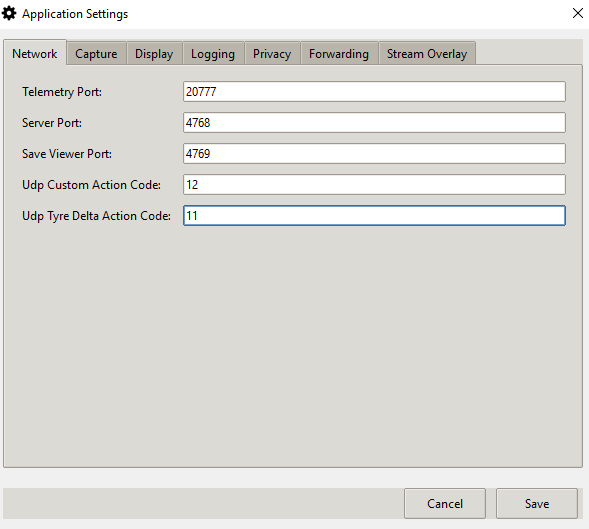
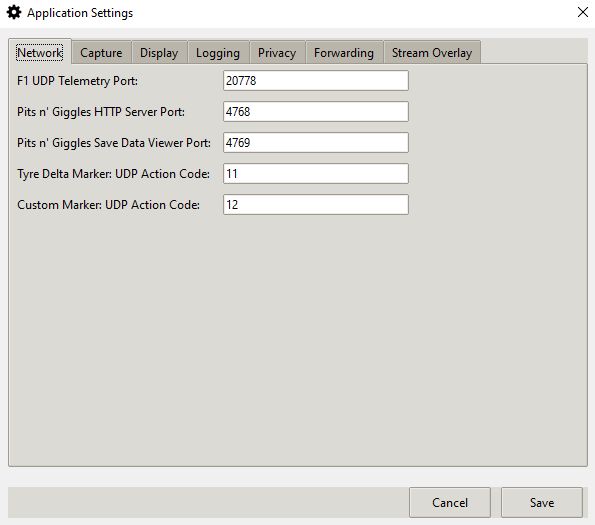
Updated settings screenshot and setup blog

Changed region(s): [[0.0, 0.0, 1.0, 0.8838], [0.0, 0.8838, 1.0, 1.0], [0.9779, 0.0, 1.0, 0.0305]]

diff --git a/src/content/blog/setting-up-udp-telemetry-f1.md b/src/content/blog/setting-up-udp-telemetry-f1.md
@@ -55,7 +55,7 @@ Start your F1 game-*Pits n' Giggles* supports **F1 2021** through **F1 25** (and
 
    * **UDP Telemetry**: `On`
    * **UDP Port**: `20777` (or the port you set in the app)
-   * **UDP Send Rate**: `20Hz` or higher (recommended)
+   * **UDP Send Rate**: `60Hz`
    * **UDP Format**: Choose your game version: `2023`, `2024` or `2025`
    * **Your Telemetry**: `Public`
    * **Show Names**: `On` (this enables driver names in the dashboard)
@@ -68,6 +68,15 @@ These settings ensure your game streams real-time **F1 telemetry data** to *Pits
 
 ![Game settings](/blog_assets/f1-telemetry-setup/f1-game-settings.png)
 
+
+> NOTE: If you're on console (PS/XBox),
+```
+1. set UDP Broadcast Mode to On
+2. Run Pits n' Giggles on a windows computer (PC/laptop)
+3. Optional: If you have changed the port number in the F1 game settings
+    * Set the same UDP port number in Settings -> Network -> F1 UDP Telemetry Port
+```
+![Settings page screenshot](/blog_assets/f1-telemetry-setup/png-settings.png)
 ---
 
 ## ✅ That’s it!
